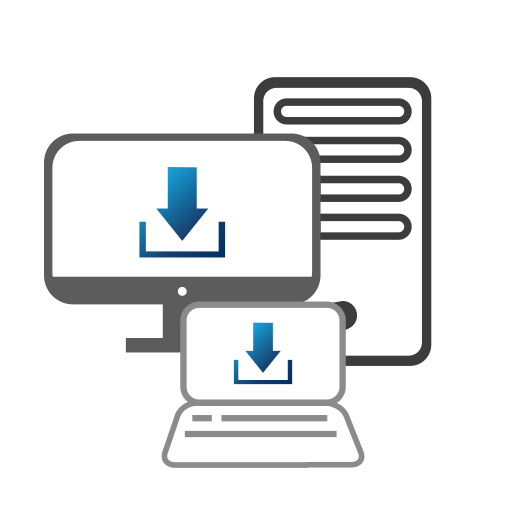
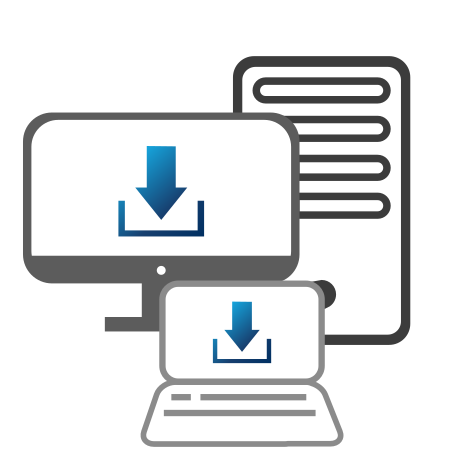
I adjusted the image sizes and some sectional sizing to fit pages better when you scroll.

Changed region(s): [[0.0298, 0.1191, 0.8936, 0.9532]]

diff --git a/css/creative.min.css b/css/creative.min.css
@@ -2,4 +2,4 @@
  * Start Bootstrap - Createive v4.0.0-beta.2 (https://startbootstrap.com/template-overviews/creative)
  * Copyright 2013-2018 Start Bootstrap
  * Licensed under MIT (https://github.com/BlackrockDigital/startbootstrap-creative/blob/master/LICENSE)
- */body,html{width:100%;height:100%}body{font-family:Merriweather,'Helvetica Neue',Arial,sans-serif}hr{max-width:50px;border-width:3px;border-color:#00548e}hr.light{border-color:#fff}a{color:#00548e;-webkit-transition:all .2s;-moz-transition:all .2s;transition:all .2s}a:focus,a:hover{color:#00548d}h1,h2,h3,h4,h5,h6{font-family:'Open Sans','Helvetica Neue',Arial,sans-serif}p{font-size:16px;line-height:1.5;margin-bottom:20px}.bg-primary{background-color:#00548e!important}.bg-dark{color:#fff;background-color:#222!important}.text-faded{color:rgba(255,255,255,.7)}section{padding:100px 0}.section-heading{margin-top:0}::-moz-selection{color:#fff;background:#222;text-shadow:none}::selection{color:#fff;background:#222;text-shadow:none}img::selection{color:#fff;background:0 0}img::-moz-selection{color:#fff;background:0 0}body{-webkit-tap-highlight-color:#222}#mainNav{border-color:rgba(34,34,34,.05);background-color:#fff;font-family:'Open Sans','Helvetica Neue',Arial,sans-serif;-webkit-transition:all .2s;-moz-transition:all .2s;transition:all .2s}#mainNav .navbar-brand{font-weight:700;color:#00548e;font-family:'Open Sans','Helvetica Neue',Arial,sans-serif}#mainNav .navbar-brand:focus,#mainNav .navbar-brand:hover{color:#00548d}#mainNav .navbar-toggle{font-size:12px;font-weight:700;text-transform:uppercase;color:#222}#mainNav .navbar-nav>li.nav-item>a.nav-link,#mainNav .navbar-nav>li.nav-item>a.nav-link:focus{font-size:15px;font-weight:700;margin:0 10px;color:#222}#mainNav .navbar-nav>li.nav-item>a.nav-link:focus:hover,#mainNav .navbar-nav>li.nav-item>a.nav-link:hover{color:#00548e}#mainNav .navbar-nav>li.nav-item>a.nav-link.active,#mainNav .navbar-nav>li.nav-item>a.nav-link:focus.active{color:#00548e!important;background-color:transparent}#mainNav .navbar-nav>li.nav-item>a.nav-link.active:hover,#mainNav .navbar-nav>li.nav-item>a.nav-link:focus.active:hover{background-color:transparent}@media (min-width:992px){#mainNav{border-color:rgba(255,255,255,.3);background-color:transparent}#mainNav .navbar-brand{color:#00548e}#mainNav .navbar-brand:focus,#mainNav .navbar-brand:hover{color:#fff}#mainNav .navbar-nav>li.nav-item>a.nav-link,#mainNav .navbar-nav>li.nav-item>a.nav-link:focus{color:rgba(255,255,255,.7)}#mainNav .navbar-nav>li.nav-item>a.nav-link:focus:hover,#mainNav .navbar-nav>li.nav-item>a.nav-link:hover{color:#fff}#mainNav.navbar-shrink{border-color:rgba(34,34,34,.05);background-color:#fff;box-shadow:0 3px 5px #777}#mainNav.navbar-shrink .navbar-brand{font-size:16px;color:#00548e}#mainNav.navbar-shrink .navbar-brand:focus,#mainNav.navbar-shrink .navbar-brand:hover{color:#00548d}#mainNav.navbar-shrink .navbar-nav>li.nav-item>a.nav-link,#mainNav.navbar-shrink .navbar-nav>li.nav-item>a.nav-link:focus{color:#222}#mainNav.navbar-shrink .navbar-nav>li.nav-item>a.nav-link:focus:hover,#mainNav.navbar-shrink .navbar-nav>li.nav-item>a.nav-link:hover{color:#00548e}}header.masthead{position:relative;width:100%;min-height:auto;text-align:left;color:#fff;background-image:url(../img/bgheader.jpg);background-position:center;background-attachment:fixed;-webkit-background-size:cover;-moz-background-size:cover;-o-background-size:cover;background-size:cover}header.masthead .header-content{position:relative;width:100%;padding:150px 15px 100px;text-align:left}header.masthead .header-content .header-content-inner h1{font-size:30px;font-weight:700;margin-top:0;margin-bottom:0}header.masthead .header-content .header-content-inner hr{margin:30px auto}header.masthead .header-content .header-content-inner p{font-size:16px;font-weight:300;margin-bottom:50px;color:rgba(255,255,255,.7)}@media (min-width:768px){header.masthead{height:100%;min-height:600px}header.masthead .header-content{position:absolute;top:50%;padding:0 50px;-webkit-transform:translateY(-50%);-ms-transform:translateY(-50%);transform:translateY(-50%)}header.masthead .header-content .header-content-inner{max-width:1000px;margin-right:auto;margin-left:auto}header.masthead .header-content .header-content-inner h1{font-size:50px}header.masthead .header-content .header-content-inner p{font-size:18px;max-width:80%;margin-right:auto;margin-left:auto}}.service-box{max-width:400px;margin:50px auto 0}@media (min-width:992px){.service-box{margin:20px auto 0}}.service-box p{margin-bottom:0}.portfolio-box{position:relative;display:block;max-width:650px;margin:0 auto}.portfolio-box .portfolio-box-caption{position:absolute;bottom:0;display:block;width:100%;height:100%;text-align:center;opacity:0;color:#fff;background:rgba(0,84,142,.9);-webkit-transition:all .2s;-moz-transition:all .2s;transition:all .2s}.portfolio-box .portfolio-box-caption .portfolio-box-caption-content{position:absolute;top:50%;width:100%;transform:translateY(-50%);text-align:center}.portfolio-box .portfolio-box-caption .portfolio-box-caption-content .project-category,.portfolio-box .portfolio-box-caption .portfolio-box-caption-content .project-name{padding:0 15px;font-family:'Open Sans','Helvetica Neue',Arial,sans-serif}.portfolio-box .portfolio-box-caption .portfolio-box-caption-content .project-category{font-size:14px;font-weight:600;text-transform:uppercase}.portfolio-box .portfolio-box-caption .portfolio-box-caption-content .project-name{font-size:18px}.portfolio-box:hover .portfolio-box-caption{opacity:1}.portfolio-box:focus{outline:0}@media (min-width:768px){.portfolio-box .portfolio-box-caption .portfolio-box-caption-content .project-category{font-size:16px}.portfolio-box .portfolio-box-caption .portfolio-box-caption-content .project-name{font-size:22px}}.call-to-action{padding:50px 0}.call-to-action h2{margin:0 auto 20px}.bg-hiw{color:#fff;text-align:center;background:linear-gradient(to bottom,#fff,#f3f3f3);background-size:cover;background-position:center;padding-top:100px;padding-bottom:100px}.bg-getstarted{color:#fff;text-align:center;background:url(../img/bgcloser.jpg);background-size:cover;background-position:center;background-repeat:no-repeat;background-attachment:fixed;padding-top:100px;padding-bottom:100px}.text-shadow{-webkit-filter:drop-shadow(5px 5px 5px #222);filter:drop-shadow(2px 2px 2px #222)}.drop-shadow{-webkit-box-shadow:0 0 1px 1px #555;box-shadow:0 0 1px 1px #555}.box-spacing{padding:25px}.text-primary{color:#00548e!important}.no-gutter>[class*=col-]{padding-right:0;padding-left:0}.btn-default{color:#222;border-color:#fff;background-color:#fff}.btn-default.focus,.btn-default:focus{color:#222;border-color:#bfbfbf;background-color:#e6e6e6}.btn-default:hover{color:#222;border-color:#e0e0e0;background-color:#e6e6e6}.btn-default.active,.btn-default:active,.open>.btn-default.dropdown-toggle{color:#222;border-color:#e0e0e0;background-color:#e6e6e6}.btn-default.active.focus,.btn-default.active:focus,.btn-default.active:hover,.btn-default:active.focus,.btn-default:active:focus,.btn-default:active:hover,.open>.btn-default.dropdown-toggle.focus,.open>.btn-default.dropdown-toggle:focus,.open>.btn-default.dropdown-toggle:hover{color:#222;border-color:#bfbfbf;background-color:#d4d4d4}.btn-default.active,.btn-default:active,.open>.btn-default.dropdown-toggle{background-image:none}.btn-default.disabled.focus,.btn-default.disabled:focus,.btn-default.disabled:hover,.btn-default[disabled].focus,.btn-default[disabled]:focus,.btn-default[disabled]:hover,fieldset[disabled] .btn-default.focus,fieldset[disabled] .btn-default:focus,fieldset[disabled] .btn-default:hover{border-color:#fff;background-color:#fff}.btn-default .badge{color:#fff;background-color:#222}.btn-primary{color:#fff;border-color:#00548e;background-color:#00548e}.btn-primary.focus,.btn-primary:focus{color:#fff;border-color:#00090f;background-color:#00365b}.btn-primary:hover{color:#fff;border-color:#003051;background-color:#00365b}.btn-primary.active,.btn-primary:active,.open>.btn-primary.dropdown-toggle{color:#fff;border-color:#003051;background-color:#00365b}.btn-primary.active.focus,.btn-primary.active:focus,.btn-primary.active:hover,.btn-primary:active.focus,.btn-primary:active:focus,.btn-primary:active:hover,.open>.btn-primary.dropdown-toggle.focus,.open>.btn-primary.dropdown-toggle:focus,.open>.btn-primary.dropdown-toggle:hover{color:#fff;border-color:#00090f;background-color:#002137}.btn-primary.active,.btn-primary:active,.open>.btn-primary.dropdown-toggle{background-image:none}.btn-primary.disabled.focus,.btn-primary.disabled:focus,.btn-primary.disabled:hover,.btn-primary[disabled].focus,.btn-primary[disabled]:focus,.btn-primary[disabled]:hover,fieldset[disabled] .btn-primary.focus,fieldset[disabled] .btn-primary:focus,fieldset[disabled] .btn-primary:hover{border-color:#00548e;background-color:#00548e}.btn-primary .badge{color:#00548e;background-color:#fff}.btn{font-weight:700;border:1px solid #00548e;background:#00548e;color:#fefefe;border-radius:2px;font-family:'Open Sans','Helvetica Neue',Arial,sans-serif}.btn-xl{padding:15px 30px}
+ */body,html{width:100%;height:100%}body{font-family:Merriweather,'Helvetica Neue',Arial,sans-serif}hr{max-width:50px;border-width:3px;border-color:#00548e}hr.light{border-color:#fff}a{color:#00548e;-webkit-transition:all .2s;-moz-transition:all .2s;transition:all .2s}a:focus,a:hover{color:#00548d}h1,h2,h3,h4,h5,h6{font-family:'Open Sans','Helvetica Neue',Arial,sans-serif}p{font-size:16px;line-height:1.5;margin-bottom:20px}.bg-primary{background-color:#00548e!important}.bg-dark{color:#fff;background-color:#222!important}.text-faded{color:rgba(255,255,255,.7)}section{padding:30px 0}.section-heading{margin-top:0}::-moz-selection{color:#fff;background:#222;text-shadow:none}::selection{color:#fff;background:#222;text-shadow:none}img::selection{color:#fff;background:0 0}img::-moz-selection{color:#fff;background:0 0}body{-webkit-tap-highlight-color:#222}#mainNav{border-color:rgba(34,34,34,.05);background-color:#fff;font-family:'Open Sans','Helvetica Neue',Arial,sans-serif;-webkit-transition:all .2s;-moz-transition:all .2s;transition:all .2s}#mainNav .navbar-brand{font-weight:700;color:#00548e;font-family:'Open Sans','Helvetica Neue',Arial,sans-serif}#mainNav .navbar-brand:focus,#mainNav .navbar-brand:hover{color:#00548d}#mainNav .navbar-toggle{font-size:12px;font-weight:700;text-transform:uppercase;color:#222}#mainNav .navbar-nav>li.nav-item>a.nav-link,#mainNav .navbar-nav>li.nav-item>a.nav-link:focus{font-size:15px;font-weight:700;margin:0 10px;color:#222}#mainNav .navbar-nav>li.nav-item>a.nav-link:focus:hover,#mainNav .navbar-nav>li.nav-item>a.nav-link:hover{color:#00548e}#mainNav .navbar-nav>li.nav-item>a.nav-link.active,#mainNav .navbar-nav>li.nav-item>a.nav-link:focus.active{color:#00548e!important;background-color:transparent}#mainNav .navbar-nav>li.nav-item>a.nav-link.active:hover,#mainNav .navbar-nav>li.nav-item>a.nav-link:focus.active:hover{background-color:transparent}@media (min-width:992px){#mainNav{border-color:rgba(255,255,255,.3);background-color:transparent}#mainNav .navbar-brand{color:#00548e}#mainNav .navbar-brand:focus,#mainNav .navbar-brand:hover{color:#fff}#mainNav .navbar-nav>li.nav-item>a.nav-link,#mainNav .navbar-nav>li.nav-item>a.nav-link:focus{color:rgba(255,255,255,.7)}#mainNav .navbar-nav>li.nav-item>a.nav-link:focus:hover,#mainNav .navbar-nav>li.nav-item>a.nav-link:hover{color:#fff}#mainNav.navbar-shrink{border-color:rgba(34,34,34,.05);background-color:#fff;box-shadow:0 3px 5px #777}#mainNav.navbar-shrink .navbar-brand{font-size:16px;color:#00548e}#mainNav.navbar-shrink .navbar-brand:focus,#mainNav.navbar-shrink .navbar-brand:hover{color:#00548d}#mainNav.navbar-shrink .navbar-nav>li.nav-item>a.nav-link,#mainNav.navbar-shrink .navbar-nav>li.nav-item>a.nav-link:focus{color:#222}#mainNav.navbar-shrink .navbar-nav>li.nav-item>a.nav-link:focus:hover,#mainNav.navbar-shrink .navbar-nav>li.nav-item>a.nav-link:hover{color:#00548e}}header.masthead{position:relative;width:100%;min-height:auto;text-align:left;color:#fff;background-image:url(../img/bgheader.jpg);background-position:center;background-attachment:fixed;-webkit-background-size:cover;-moz-background-size:cover;-o-background-size:cover;background-size:cover}header.masthead .header-content{position:relative;width:100%;padding:150px 15px 100px;text-align:left}header.masthead .header-content .header-content-inner h1{font-size:30px;font-weight:700;margin-top:0;margin-bottom:0}header.masthead .header-content .header-content-inner hr{margin:30px auto}header.masthead .header-content .header-content-inner p{font-size:16px;font-weight:300;margin-bottom:50px;color:rgba(255,255,255,.7)}@media (min-width:768px){header.masthead{height:100%;min-height:600px}header.masthead .header-content{position:absolute;top:50%;padding:0 50px;-webkit-transform:translateY(-50%);-ms-transform:translateY(-50%);transform:translateY(-50%)}header.masthead .header-content .header-content-inner{max-width:1000px;margin-right:auto;margin-left:auto}header.masthead .header-content .header-content-inner h1{font-size:50px}header.masthead .header-content .header-content-inner p{font-size:18px;max-width:80%;margin-right:auto;margin-left:auto}}.service-box{max-width:400px;margin:50px auto 0}@media (min-width:992px){.service-box{margin:20px auto 0}}.service-box p{margin-bottom:0}.portfolio-box{position:relative;display:block;max-width:650px;margin:0 auto}.portfolio-box .portfolio-box-caption{position:absolute;bottom:0;display:block;width:100%;height:100%;text-align:center;opacity:0;color:#fff;background:rgba(0,84,142,.9);-webkit-transition:all .2s;-moz-transition:all .2s;transition:all .2s}.portfolio-box .portfolio-box-caption .portfolio-box-caption-content{position:absolute;top:50%;width:100%;transform:translateY(-50%);text-align:center}.portfolio-box .portfolio-box-caption .portfolio-box-caption-content .project-category,.portfolio-box .portfolio-box-caption .portfolio-box-caption-content .project-name{padding:0 15px;font-family:'Open Sans','Helvetica Neue',Arial,sans-serif}.portfolio-box .portfolio-box-caption .portfolio-box-caption-content .project-category{font-size:14px;font-weight:600;text-transform:uppercase}.portfolio-box .portfolio-box-caption .portfolio-box-caption-content .project-name{font-size:18px}.portfolio-box:hover .portfolio-box-caption{opacity:1}.portfolio-box:focus{outline:0}@media (min-width:768px){.portfolio-box .portfolio-box-caption .portfolio-box-caption-content .project-category{font-size:16px}.portfolio-box .portfolio-box-caption .portfolio-box-caption-content .project-name{font-size:22px}}.call-to-action{padding:50px 0}.call-to-action h2{margin:0 auto 20px}.bg-hiw{color:#fff;text-align:center;background:linear-gradient(to bottom,#fff,#f3f3f3);background-size:cover;background-position:center;padding-top:30px;padding-bottom:100px}.bg-getstarted{color:#fff;height:87vh;text-align:center;background:url(../img/bgcloser.jpg);background-size:cover;background-position:center;background-repeat:no-repeat;background-attachment:fixed;padding-top:30px;padding-bottom:100px}.pillar{min-height:520px}.text-shadow{-webkit-filter:drop-shadow(5px 5px 5px #222);filter:drop-shadow(2px 2px 2px #222)}.drop-shadow{-webkit-box-shadow:0 0 1px 1px #555;box-shadow:0 0 1px 1px #555}.box-spacing{padding:15px}.text-primary{color:#00548e!important}.no-gutter>[class*=col-]{padding-right:0;padding-left:0}.btn-default{color:#222;border-color:#fff;background-color:#fff}.btn-default.focus,.btn-default:focus{color:#222;border-color:#bfbfbf;background-color:#e6e6e6}.btn-default:hover{color:#222;border-color:#e0e0e0;background-color:#e6e6e6}.btn-default.active,.btn-default:active,.open>.btn-default.dropdown-toggle{color:#222;border-color:#e0e0e0;background-color:#e6e6e6}.btn-default.active.focus,.btn-default.active:focus,.btn-default.active:hover,.btn-default:active.focus,.btn-default:active:focus,.btn-default:active:hover,.open>.btn-default.dropdown-toggle.focus,.open>.btn-default.dropdown-toggle:focus,.open>.btn-default.dropdown-toggle:hover{color:#222;border-color:#bfbfbf;background-color:#d4d4d4}.btn-default.active,.btn-default:active,.open>.btn-default.dropdown-toggle{background-image:none}.btn-default.disabled.focus,.btn-default.disabled:focus,.btn-default.disabled:hover,.btn-default[disabled].focus,.btn-default[disabled]:focus,.btn-default[disabled]:hover,fieldset[disabled] .btn-default.focus,fieldset[disabled] .btn-default:focus,fieldset[disabled] .btn-default:hover{border-color:#fff;background-color:#fff}.btn-default .badge{color:#fff;background-color:#222}.btn-primary{color:#fff;border-color:#00548e;background-color:#00548e}.btn-primary.focus,.btn-primary:focus{color:#fff;border-color:#00090f;background-color:#00365b}.btn-primary:hover{color:#fff;border-color:#003051;background-color:#00365b}.btn-primary.active,.btn-primary:active,.open>.btn-primary.dropdown-toggle{color:#fff;border-color:#003051;background-color:#00365b}.btn-primary.active.focus,.btn-primary.active:focus,.btn-primary.active:hover,.btn-primary:active.focus,.btn-primary:active:focus,.btn-primary:active:hover,.open>.btn-primary.dropdown-toggle.focus,.open>.btn-primary.dropdown-toggle:focus,.open>.btn-primary.dropdown-toggle:hover{color:#fff;border-color:#00090f;background-color:#002137}.btn-primary.active,.btn-primary:active,.open>.btn-primary.dropdown-toggle{background-image:none}.btn-primary.disabled.focus,.btn-primary.disabled:focus,.btn-primary.disabled:hover,.btn-primary[disabled].focus,.btn-primary[disabled]:focus,.btn-primary[disabled]:hover,fieldset[disabled] .btn-primary.focus,fieldset[disabled] .btn-primary:focus,fieldset[disabled] .btn-primary:hover{border-color:#00548e;background-color:#00548e}.btn-primary .badge{color:#00548e;background-color:#fff}.btn{font-weight:700;border:1px solid #00548e;background:#00548e;color:#fefefe;border-radius:2px;font-family:'Open Sans','Helvetica Neue',Arial,sans-serif}.btn-xl{padding:15px 30px}

diff --git a/index.html b/index.html
@@ -170,17 +170,17 @@
         <div class="row">
           <div class="col-lg-12 text-center">
             <h2 class="section-heading text-primary display-4">How it works</h2>
-            <p class="text-primary mb-5"><font size=4>Smart clouds scale and stabilize themselves - so you won't need to</font><br><br></p>
+            <p class="text-primary mb-3"><font size=4>Smart clouds scale and stabilize themselves - so you won't need to</font><br><br></p>
           </div>
 
 
 
           <div class="col-lg-4">
             <div class="drop-shadow">
-              <div class="mx-auto mb-5 mb-lg-0 mb-lg-3 bg-white container-fluid box-spacing text-center">
+              <div class="mx-auto mb-5 mb-lg-0 mb-lg-3 bg-white container-fluid text-left pillar">
                 <img src="img/icon1.png" class="img-fluid w-85 p-3" >
-                <h5 class="text-primary font-weight-bold mb-5">1. Install Planck's Cloud on all your devices</h5>
-                <p class="text-primary linespacing">Installing the Planck's Cloud application on all your devices will connect them, and have them collaborate as a collective computing cloud.</p>
+                <h5 class="text-primary font-weight-bold mb-3">1. Install Planck's Cloud on all your devices</h5>
+                <p class="text-primary pb-3">Installing the Planck's Cloud application on all your devices will connect them, and have them collaborate as a collective computing cloud.</p>
               </div>
               <div class="text-center bg-palewhite vertical-align container-fluid">
                 <p class="text-muted fa fa-1x fa-clock-o"> 3 minutes per device</p>
@@ -190,10 +190,10 @@
 
           <div class="col-lg-4">
             <div class="drop-shadow">
-              <div class="mx-auto mb-5 mb-lg-0 mb-lg-3 bg-white container-fluid box-spacing text-center">
+              <div class="mx-auto mb-5 mb-lg-0 mb-lg-3 bg-white container-fluid text-left pillar">
                 <img src="img/icon2.png" class="img-fluid w-85 p-3">
-                <h5 class="text-primary mb-5 font-weight-bold">2. Decide on the type of cloud you need</h5>
-                <p class="text-primary linespacing">Now you get to decide how to use your cloud, whether it's for hosting, batch processing, or whatever your business needs, the sky is the limit.</p><br>
+                <h5 class="text-primary mb-3 font-weight-bold">2. Decide on the type of cloud you need</h5>
+                <p class="text-primary pb-3">Now you get to decide how to use your cloud, whether it's for hosting, batch processing, or whatever your business needs, the sky is the limit.</p>
               </div>
               <div class="text-center bg-palewhite vertical-align">
                 <p class="text-muted fa fa-1x fa-clock-o"> 20 minutes</p>
@@ -203,10 +203,10 @@
 
           <div class="col-lg-4">
             <div class="drop-shadow">
-              <div class="mx-auto mb-5 mb-lg-0 mb-lg-3 bg-white container-fluid box-spacing text-center">
+              <div class="mx-auto mb-5 mb-lg-0 mb-lg-3 bg-white container-fluid text-left pillar">
                 <img src="img/icon3.png" class="img-fluid w-85 p-3">
-                <h5 class="text-primary mb-5 font-weight-bold"><b>3. We're always looking out for you</b></h5>
-                <p class="text-primary linespacing">We'll support you in getting your cloud to work, ensuring reliability and that you're getting the best deals on the market.</p><br>
+                <h5 class="text-primary mb-3 font-weight-bold">3. We're always looking out for you</h5>
+                <p class="text-primary pb-3">We'll support you in getting your cloud to work, ensuring reliability and that you're getting the best deals on the market.</p>
               </div>
               <div class="text-center bg-palewhite vertical-align">
                 <p class="text-muted fa fa-1x fa-clock-o"> Monthly</p>

diff --git a/css/creative.css b/css/creative.css
@@ -51,7 +51,7 @@ p {
   color: rgba(255, 255, 255, 0.7); }
 
 section {
-  padding: 100px 0; }
+  padding: 30px 0; }
 
 .section-heading {
   margin-top: 0; }
@@ -258,19 +258,23 @@ header.masthead {
   background: linear-gradient(to bottom, #FFF, #f3f3f3);
   background-size: cover;
   background-position: center;
-  padding-top: 100px;
+  padding-top: 30px;
   padding-bottom: 100px; }
 
 .bg-getstarted {
   color: #fff;
+  height: 87vh;
   text-align: center;
   background: url("../img/bgcloser.jpg");
   background-size: cover;
   background-position: center;
   background-repeat: no-repeat;
   background-attachment: fixed;
-  padding-top: 100px;
+  padding-top: 30px;
   padding-bottom: 100px; }
+
+.pillar {
+  min-height: 520px; }
 
 .text-shadow {
   -webkit-filter: drop-shadow(5px 5px 5px #222222);
@@ -281,7 +285,7 @@ header.masthead {
   box-shadow: 0 0 1px 1px #555555; }
 
 .box-spacing {
-  padding: 25px; }
+  padding: 15px; }
 
 .text-primary {
   color: #00548e !important; }

diff --git a/scss/_custom.scss b/scss/_custom.scss
@@ -4,19 +4,23 @@
     background: linear-gradient(to bottom, #FFF, #f3f3f3);
     background-size:cover;
     background-position:center;
-    padding-top:100px;
+    padding-top:30px;
     padding-bottom:100px;
 }
 .bg-getstarted{
     color:#fff;
+    height: 87vh;
     text-align:center;
     background:url('../img/bgcloser.jpg');
     background-size:cover;
     background-position:center;
     background-repeat: no-repeat;
     background-attachment: fixed;
-    padding-top:100px;
+    padding-top:30px;
     padding-bottom:100px;
+}
+.pillar{
+  min-height: 520px;
 }
 .text-shadow{
   -webkit-filter: drop-shadow(5px 5px 5px $gray-darker);
@@ -28,5 +32,5 @@
 }
 
 .box-spacing{
-  padding: 25px;
+  padding: 15px;
 }

diff --git a/scss/_global.scss b/scss/_global.scss
@@ -57,7 +57,7 @@ p {
 }
 
 section {
-  padding: 100px 0;
+  padding: 30px 0;
 }
 
 .section-heading {
